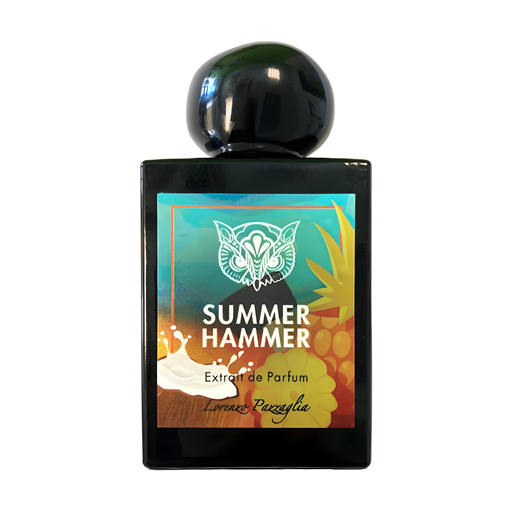
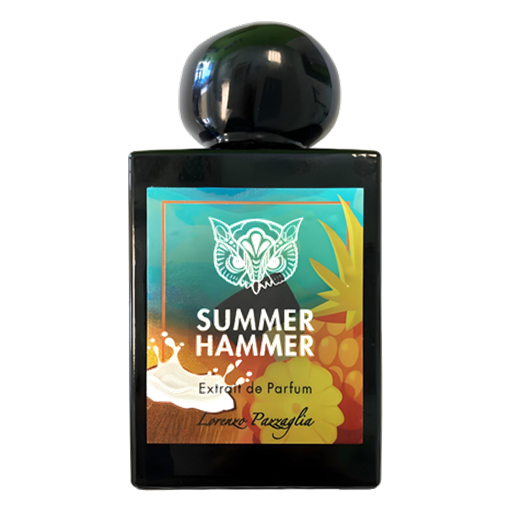
Corrected background in recently added fragrances

Changed region(s): [[0.25, 0.0312, 0.75, 0.9688]]

diff --git a/src/data/perfumes.js b/src/data/perfumes.js
@@ -802,19 +802,19 @@ vibes: ["fresh", "modern", "easy", "sporty"]
 },
 {
 id: 34,
-name: "Gentleman Only Blue Label",
+name: "Givenchy Pour Homme Blue Label",
 shortName: "Blue Label",
 brand: "Givenchy",
 points: 1,
-image: "/images/perfumes/bronze/batch-02/gentleman-only-blue-label.png",
-accords: ["woody", "citrus", "fresh spicy", "aromatic", "green"],
-topNotes: ["pinkPepper", "greenMandarin", "birchLeaf", "nutmeg", "bergamot"],
-middleNotes: ["vetiver", "cedar", "patchouli"],
-baseNotes: ["incense", "musk"],
+image: "/images/perfumes/bronze/batch-02/givenchy-pour-homme-blue-label.png",
+accords: ["citrus", "fresh spicy", "aromatic", "woody", "fresh"],
+topNotes: ["grapefruit", "bergamot"],
+middleNotes: ["pepper", "cardamom", "artemisia", "lavender"],
+baseNotes: ["vetiver", "olibanum", "cedarwood"],
 generalNotes: [],
 seasons: ["spring", "summer", "fall"],
 occasions: ["daily", "office", "casual"],
-vibes: ["fresh", "clean", "elegant", "confident"]
+vibes: ["fresh", "clean", "bright", "versatile"]
 },
 {
   id: 100,
@@ -1000,6 +1000,23 @@ baseNotes: ["caramel", "musk"],
     "mediterranean",
     "playful",
   ],
+},
+
+{
+  id: 119,
+  name: "Mirto di Panarea",
+  shortName: "Mirto",
+  brand: "Acqua di Parma",
+  points: 1.5,
+  image: "/images/perfumes/silver/mirto-di-panarea.png",
+  accords: ["citrus", "aromatic", "fresh spicy", "aquatic", "woody"],
+  topNotes: ["basil", "lemon", "bergamot"],
+  middleNotes: ["seaNotes", "jasmine", "rose"],
+  baseNotes: ["juniper", "cedar", "amber"],
+  generalNotes: [],
+  seasons: ["spring", "summer"],
+  occasions: ["daily", "casual", "vacation"],
+  vibes: ["fresh", "mediterranean", "relaxed", "aquatic"],
 },
 
 {
@@ -1255,23 +1272,6 @@ baseNotes: ["caramel", "musk"],
   seasons: ["spring", "fall", "winter"],
   occasions: ["date", "night", "formal"],
   vibes: ["seductive", "elegant", "warm", "classic"],
-},
-
-{
-  id: 119,
-  name: "Mirto di Panarea",
-  shortName: "Mirto",
-  brand: "Acqua di Parma",
-  points: 1.5,
-  image: "/images/perfumes/silver/mirto-di-panarea.png",
-  accords: ["citrus", "aromatic", "fresh spicy", "aquatic", "woody"],
-  topNotes: ["basil", "lemon", "bergamot"],
-  middleNotes: ["seaNotes", "jasmine", "rose"],
-  baseNotes: ["juniper", "cedar", "amber"],
-  generalNotes: [],
-  seasons: ["spring", "summer"],
-  occasions: ["daily", "casual", "vacation"],
-  vibes: ["fresh", "mediterranean", "relaxed", "aquatic"],
 },
 
 {
@@ -2888,7 +2888,7 @@ const SEASON_WEIGHTS_BY_ID = {
   31: { spring: 7, summer: 8, fall: 5, winter: 2 },
   32: { spring: 4, summer: 1, fall: 8, winter: 8 },
   33: { spring: 8, summer: 7, fall: 5, winter: 2 },
-  34: { spring: 8, summer: 7, fall: 5, winter: 2 },
+  34: { spring: 8, summer: 8, fall: 4, winter: 1 },
   100: { spring: 8, summer: 10, fall: 2, winter: 0 },
   101: { spring: 8, summer: 10, fall: 2, winter: 0 },
   102: { spring: 9, summer: 10, fall: 2, winter: 0 },
